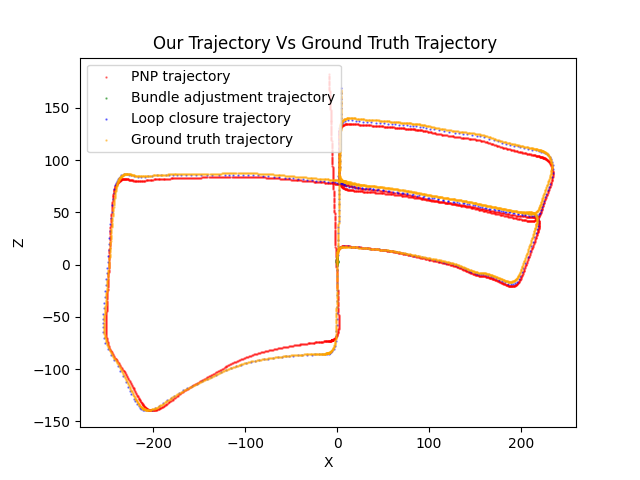
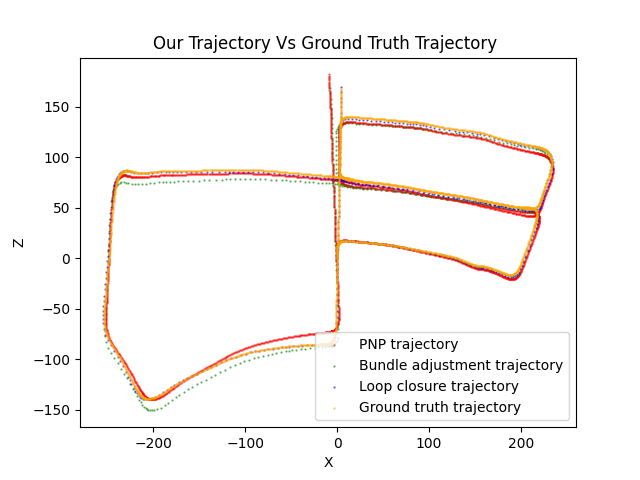
...

diff --git a/models/TrajectorySolver.py b/models/TrajectorySolver.py
@@ -3,7 +3,7 @@ import numpy as np
 from models.Constants import *
 from models.Matcher import Matcher
 from models.TrackDatabase import TrackDatabase
-from models.BundleAdjustment import bundle_adjustment, create_pose_graph, load_bundle_results
+from models.BundleAdjustment import bundle_adjustment, create_pose_graph, load_bundle_results, get_translation_rotation_diff
 from utils.utils import track_camera_for_many_images, get_gt_trajectory
 from utils.plotters import plot_trajectories, plot_localization_error_over_time
 from models.LoopClosure import loop_closure, plot_pg_locations_before_and_after_lc,\
@@ -25,6 +25,9 @@ class TrajectorySolver:
         raise NotImplementedError("Subclasses should implement this!")
 
     def get_absolute_localization_error(self):
+        raise NotImplementedError("Subclasses should implement this!")
+
+    def get_absolute_estimation_error(self):
         raise NotImplementedError("Subclasses should implement this!")
 
     def compare_trajectory_to_gt(self):
@@ -79,6 +82,9 @@ class TrajectorySolver:
 
 class PNP(TrajectorySolver):
 
+    def get_absolute_estimation_error(self):
+        pass
+
     def __init__(self,track_db, force_recompute=False):
         super().__init__(track_db)
         self.force_recompute = force_recompute
@@ -123,7 +129,7 @@ class BundleAdjustment(TrajectorySolver):
         self.key_frames = [window[0] for window in bundle_windows] + [bundle_windows[-1][1]]
         self.__extract_trajectory_elements()
         bundle_results, optimized_relative_keyframes_poses, optimized_global_keyframes_poses, bundle_windows, \
-        cond_matrices = load_bundle_results(PATH_TO_SAVE_BUNDLE_ADJUSTMENT_RESULTS)
+        cond_matrices = self.bundle_results
         key_frames = [window[0] for window in bundle_windows] + [bundle_windows[-1][1]]
         _, initial_estimates, _ = create_pose_graph(bundle_results,
                                                                     optimized_relative_keyframes_poses,
@@ -153,7 +159,7 @@ class BundleAdjustment(TrajectorySolver):
             optimized_global_keyframes_poses.append(current_global_pose)
 
         self.__global_3d_points_numpy = np.array(global_3d_points)
-        self.__global_Rt_poses_in_numpy = np.array([pose.translation() for pose in optimized_relative_keyframes_poses])
+        self.__global_Rt_poses_in_numpy = np.array([pose.translation() for pose in optimized_global_keyframes_poses])
 
     def compare_trajectory_to_gt(self):
         gt_camera_positions = get_gt_trajectory()
@@ -166,6 +172,16 @@ class BundleAdjustment(TrajectorySolver):
             plot_trajectories(camera_positions=self.__global_Rt_poses_in_numpy, gt_camera_positions=gt_camera_positions,
                               points_3d=None, path=PATH_TO_SAVE_COMPARISON_TO_GT)
 
+    def get_rotation_error(self):
+
+        pass
+        # pred_trajectory = self.__global_Rt_poses_in_numpy
+        # gt_trajectory = get_gt_trajectory()[self.key_frames]
+        # for kf in self.key_frames:
+        #     pred_pose = pred_trajectory[kf]
+        #     gt_pose = gt_trajectory[kf]
+        #     translation, rotation = get_translation_rotation_diff(pred_pose, gt_pose)
+        #     print(translation)
 
     def get_absolute_localization_error(self):
 
@@ -190,6 +206,8 @@ class LoopClosure(TrajectorySolver):
 
     def __init__(self,track_db):
         super().__init__(track_db)
+        self.__global_3d_points_numpy = None
+        self.__global_Rt_poses_in_numpy = None
         self.__pose_graph = None
         self.__our_trajectory = None
         self.__cur_pose_graph_estimates = None
@@ -201,8 +219,6 @@ class LoopClosure(TrajectorySolver):
         self.global_3d_points = []
         self.key_frames = None
 
-        self.__global_3d_points_numpy = None
-        self.__global_Rt_poses_in_numpy = None
 
     def solve_trajectory(self):
         # Implement Loop Closure algorithm here
@@ -239,6 +255,16 @@ class LoopClosure(TrajectorySolver):
             print(f"{e}.\nRunning solve_trajectory...")
             self.solve_trajectory()
             plot_pg_locations_error_graph_before_and_after_lc(self.__pose_graph, self.__cur_pose_graph_estimates)
+
+    def get_rotation_error(self):
+        pass
+        # pred_trajectory = self.get_final_estimated_trajectory()
+        # gt_trajectory = get_gt_trajectory()[self.key_frames]
+        # for kf in self.key_frames:
+        #     pred_pose = pred_trajectory[kf]
+        #     gt_pose = gt_trajectory[kf]
+        #     translation, rotation = get_translation_rotation_diff(pred_pose, gt_pose)
+        #     print(translation)
 
     def show_uncertainty(self):
         try:

diff --git a/models/BundleAdjustment.py b/models/BundleAdjustment.py
@@ -40,7 +40,7 @@ def get_bundle_windows(key_frames):
     return [(key_frames[i - 1], key_frames[i]) for i in range(1, len(key_frames))]
 
 
-def _compute_distance(pose_i, pose_j):
+def get_translation_rotation_diff(pose_i, pose_j):
     translation_i = pose_i[:3, 3]  # Extract translation vector from pose_i
     translation_j = pose_j[:3, 3]  # Extract translation vector from pose_j
 
@@ -50,8 +50,8 @@ def _compute_distance(pose_i, pose_j):
 
     rotation_diff = rotation_i.inv() * rotation_j  # Compute the relative rotation difference between pose_i and pose_j
     axis_angle = rotation_diff.as_rotvec()
-    sign = 1 if np.sum(np.sign(axis_angle)) == (3 or -3) else -1 # Sign of the angle
-    return distance, rotation_diff.magnitude() * sign
+    # sign = 1 if np.sum(np.sign(axis_angle)) == (3 or -3) else -1 # Sign of the angle
+    return distance, rotation_diff.magnitude()
 
 
 def select_keyframes_by_track_max_distance(frames, track_db):
@@ -61,7 +61,7 @@ def select_keyframes_by_track_max_distance(frames, track_db):
     while frameId < len(frames):
         cur_pose = track_db.get_extrinsic_matrix_by_frameId(frameId)
         prev_pose = track_db.get_extrinsic_matrix_by_frameId(frameIds[-1])
-        distance, angle = _compute_distance(prev_pose, cur_pose)
+        distance, angle = get_translation_rotation_diff(prev_pose, cur_pose)
         window_size = frameId-frameIds[-1]
         rotation_accumulator += angle
 
@@ -177,7 +177,7 @@ def key_frames_by_percentile(frames, percentage, track_db):
         for fid in range(frame, new_key_frame):
             cur_pose = track_db.get_extrinsic_matrix_by_frameId(frame)
             prev_pose = track_db.get_extrinsic_matrix_by_frameId(frame - 1)
-            cur_step, angle = _compute_distance(prev_pose, cur_pose)
+            cur_step, angle = get_translation_rotation_diff(prev_pose, cur_pose)
             distance += cur_step
             rotation += angle
             if (abs(rotation) > 0.5 or abs(distance) > 100) and 4 < (fid - frame) < 20:

diff --git a/main.py b/main.py
@@ -21,6 +21,7 @@ if __name__ == "__main__":
     bundle_adjustment_cam_pos = bundle_adjustment_solver.get_final_estimated_trajectory()
     bundle_adjustment_solver.get_absolute_localization_error()
     bundle_adjustment_solver.compare_trajectory_to_gt()
+    bundle_adjustment_solver.get_rotation_error()
     print("#################### Starting Loop Closure segment ####################")
     loop_closure_solver = LoopClosure(track_db)
     loop_closure_solver.solve_trajectory()
